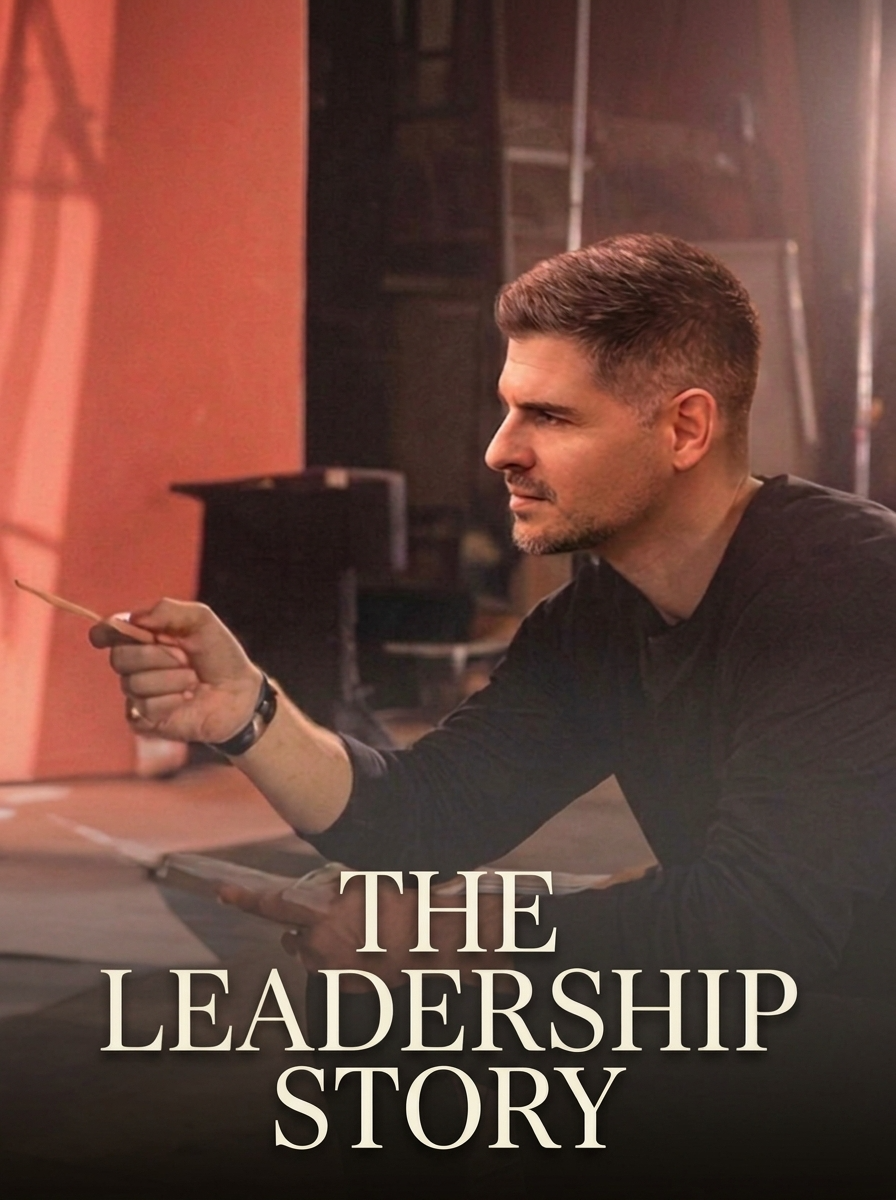
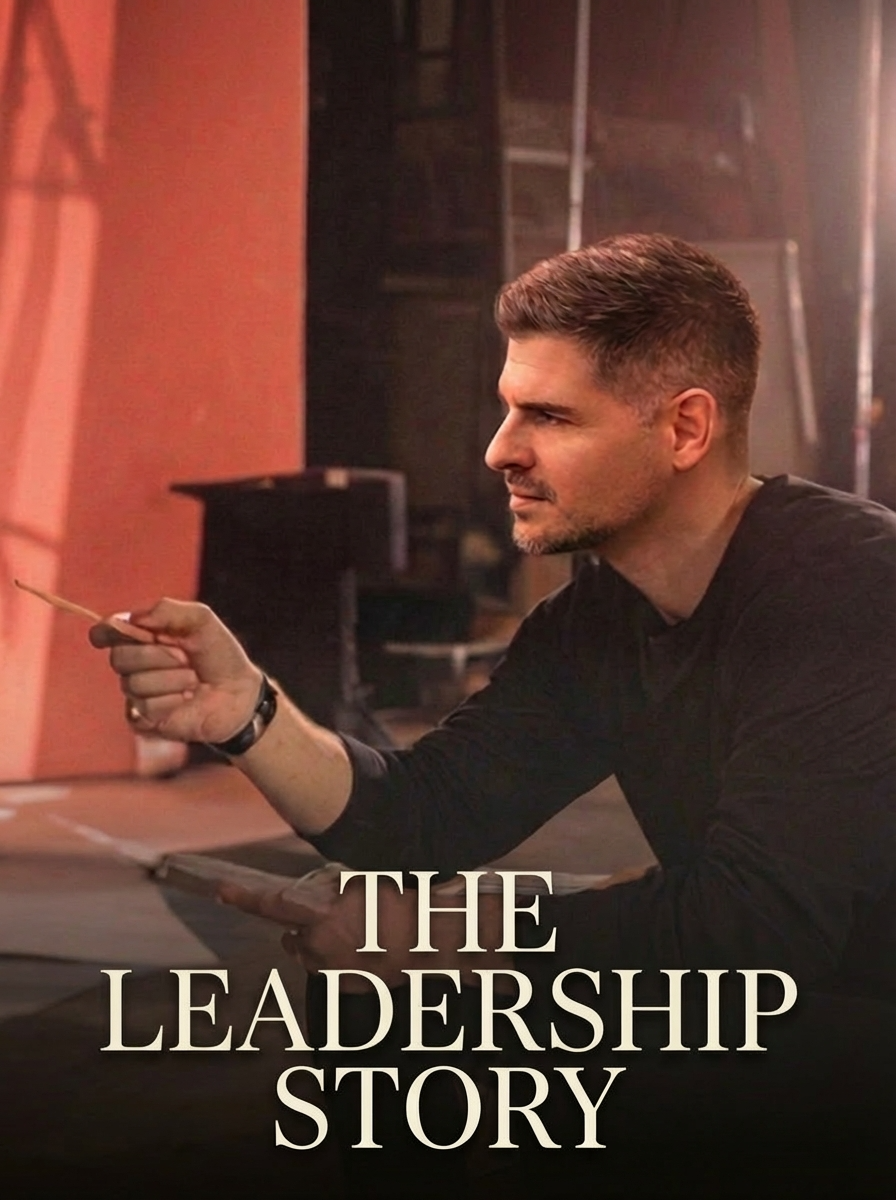
feat(portal): replace system visual and sync advisory updates

Changed region(s): [[0.1562, 0.6167, 1.0, 0.8942], [0.0, 0.7092, 0.1875, 0.8325], [0.2188, 0.6167, 0.2812, 0.6475]]

diff --git a/TheHub/advisory/index.html b/TheHub/advisory/index.html
@@ -17,7 +17,7 @@
     <link rel="icon" type="image/png" sizes="32x32" href="/assets/images/favicon-32x32.png">
     
     <!-- Ecosystem Fonts -->
-    <link href="https://fonts.googleapis.com/css2?family=Inter:wght@300;400;500;600;700&family=Big+Shoulders+Display:wght@600;700;800&display=swap" rel="stylesheet">
+    <link href="https://fonts.googleapis.com/css2?family=Inter:wght@300;400;500;600;700&family=Big+Shoulders+Display:wght@600;700;800&family=Cormorant+Garamond:ital,wght@0,300;0,400;0,500;1,300;1,400;1,500&display=swap" rel="stylesheet">
     
     <!-- Icons -->
     <link rel="stylesheet" href="https://cdnjs.cloudflare.com/ajax/libs/font-awesome/6.4.0/css/all.min.css" crossorigin="anonymous">
@@ -38,6 +38,7 @@
             --border-color: rgba(0, 0, 0, 0.08);
             --font-strategist: 'Big Shoulders Display', sans-serif;
             --font-orchestrator: 'Inter', sans-serif;
+            --font-storyteller: 'Cormorant Garamond', Georgia, serif;
             --ease-out: cubic-bezier(0.4, 0, 0.2, 1);
             --ease-spring: cubic-bezier(0.16, 1, 0.3, 1);
         }
@@ -76,6 +77,29 @@
            TYPOGRAPHY & UTILS
            ========================================== */
         h1, h2, h3 { font-family: 'Big Shoulders Display', sans-serif; letter-spacing: -0.01em; line-height: 1.1; }
+
+        /* ── STORYTELLER TYPOGRAPHY ── */
+        .serif-body {
+            font-family: var(--font-storyteller);
+            font-size: 1.2rem;
+            font-weight: 300;
+            line-height: 1.75;
+            color: var(--text-secondary);
+        }
+        .card p, .mode-body, .process-desc, .node-desc {
+            font-family: var(--font-storyteller);
+            font-size: 1.05rem;
+            font-weight: 300;
+            line-height: 1.75;
+        }
+        .section-lead {
+            font-family: var(--font-storyteller);
+            font-size: 1.15rem;
+            font-weight: 300;
+            font-style: italic;
+            line-height: 1.7;
+            color: var(--text-secondary);
+        }
         
         .text-gradient { 
             background: linear-gradient(135deg, var(--coral), var(--teal)); 
@@ -297,6 +321,7 @@
         /* MOBILE OVERRIDES */
         @media (max-width: 1024px) {
             .legacy-stats { gap: 2rem; }
+            .proof-grid-3col { grid-template-columns: 1fr !important; }
             .ecosystem-flow { grid-template-columns: 1fr 1fr; }
             .ecosystem-node:nth-child(2) { border-right: 1px solid var(--border-color); border-bottom: none; }
             .ecosystem-node:nth-child(3) { border-top: none; }
@@ -317,21 +342,44 @@
         }
 
         /* Standardized Footer Responsiveness */
-        @media (max-width: 768px) {
+        @media (max-width: 1024px) {
           .ft-responsive-grid {
-            grid-template-columns: 1fr !important;
-            padding: 48px 28px 0 !important;
-            gap: 40px !important;
+            grid-template-columns: 1fr 1fr !important;
+            padding: 48px 32px 0 !important;
+            gap: 32px 24px !important;
           }
           .ft-responsive-legal {
             flex-direction: column !important;
-            align-items: flex-start !important;
-            gap: 10px !important;
-            padding: 20px 28px 32px !important;
+            align-items: center !important;
+            gap: 8px !important;
+            padding: 20px 32px 28px !important;
+            text-align: center !important;
+          }
+          .ft-responsive-legal span { text-align: center !important; max-width: 100% !important; }
+        }
+        @media (max-width: 640px) {
+          .ft-responsive-grid {
+            grid-template-columns: 1fr 1fr !important;
+            padding: 40px 20px 0 !important;
+            gap: 28px 16px !important;
+          }
+          /* Brand col spans full width, other 3 cols form 2x2 below */
+          .ft-responsive-grid > div:first-child {
+            grid-column: 1 / -1 !important;
+            text-align: center !important;
+          }
+          .ft-responsive-grid > div:first-child img {
+            margin: 0 auto 16px !important;
+            height: 64px !important;
+          }
+          .ft-responsive-grid > div:first-child p {
+            display: none !important;
+          }
+          .ft-responsive-legal {
+            padding: 16px 20px 24px !important;
           }
           .ft-responsive-legal span:last-child {
-            text-align: left !important;
-            max-width: 100% !important;
+            display: none !important;
           }
         }
     </style>
@@ -354,7 +402,7 @@
             <h1 style="font-size: clamp(3rem, 6vw, 5.5rem); line-height: 1; margin-bottom: 1.5rem; color: var(--text-primary);">
                 Clarity for the decisions<br><span class="text-gradient">that define outcomes.</span>
             </h1>
-            <p style="font-size: 1.2rem; color: var(--text-secondary); line-height: 1.7; margin-bottom: 2.75rem; max-width: 640px; margin-left: auto; margin-right: auto;">
+            <p style="font-family: 'Cormorant Garamond', Georgia, serif; font-size: 1.35rem; font-weight: 300; font-style: italic; color: var(--text-secondary); line-height: 1.7; margin-bottom: 2.75rem; max-width: 640px; margin-left: auto; margin-right: auto;">
                 Experienced strategic direction when the stakes are high and clarity is critical.
             </p>
             <div style="display: flex; gap: 1rem; justify-content: center; flex-wrap: wrap;">
@@ -450,12 +498,12 @@
         <div class="container" style="text-align: center; max-width: 800px;">
             <div class="eyebrow">EXPERTISE, EARNED</div>
             <h2 style="font-size: clamp(2.25rem, 4vw, 3.5rem); margin-bottom: 1.5rem; color: var(--text-primary);">Built across launches, transitions, and reinvention.</h2>
-            <p style="color: var(--text-secondary); font-size: 1.1rem; line-height: 1.7; margin-bottom: 3.5rem; max-width: 640px; margin-left: auto; margin-right: auto;">
+            <p style="font-family: 'Cormorant Garamond', Georgia, serif; font-size: 1.25rem; font-weight: 300; color: var(--text-secondary); line-height: 1.75; margin-bottom: 3.5rem; max-width: 640px; margin-left: auto; margin-right: auto;">
                 From Windows and Office to Teams, Edge, Microsoft 365, and Copilot, this perspective was shaped inside high-visibility environments where strategy, storytelling, and execution had to align under pressure.
             </p>
 
             <!-- Proof Points -->
-            <div style="display: grid; grid-template-columns: repeat(3, 1fr); gap: 1px; background: var(--border-color); border-radius: 12px; overflow: hidden; margin-bottom: 3.5rem;">
+            <div class="proof-grid-3col" style="display: grid; grid-template-columns: repeat(3, 1fr); gap: 1px; background: var(--border-color); border-radius: 12px; overflow: hidden; margin-bottom: 3.5rem;">
                 <div style="background: var(--bg-primary); padding: 2rem 1.5rem;">
                     <div style="font-family: 'Big Shoulders Display', sans-serif; font-size: 2.75rem; font-weight: 800; color: var(--coral); line-height: 1; margin-bottom: 0.5rem;">15+</div>
                     <div style="font-size: 0.78rem; text-transform: uppercase; color: var(--text-secondary); letter-spacing: 0.1em; line-height: 1.4;">Years across major platform &amp; brand transitions</div>
@@ -571,7 +619,7 @@
         <div class="container" style="max-width: 680px;">
             <div class="eyebrow">READY TO MOVE</div>
             <h2 style="font-size: clamp(2.5rem, 5vw, 4rem); color: var(--text-primary); margin-bottom: 1.5rem; line-height: 1.05;">Need clarity before the next move?</h2>
-            <p style="color: var(--text-secondary); font-size: 1.1rem; line-height: 1.7; margin-bottom: 3rem;">When the stakes are high and the path forward is unclear, Advisory brings the clarity and direction needed to move with confidence.</p>
+            <p style="font-family: 'Cormorant Garamond', Georgia, serif; font-size: 1.25rem; font-weight: 300; font-style: italic; color: var(--text-secondary); line-height: 1.75; margin-bottom: 3rem;">When the stakes are high and the path forward is unclear, Advisory brings the clarity and direction needed to move with confidence.</p>
             <div style="display: flex; gap: 1rem; justify-content: center; flex-wrap: wrap;"> 
                 <a href="/contact.html?from=advisory" class="btn btn-primary">Start the Conversation</a> 
                 <a href="/portal/partners/" class="btn btn-ghost">See how this operates →</a> 

diff --git a/index.html b/index.html
@@ -2982,7 +2982,7 @@
             <div class="tour-card"> 
               <div class="card-inner"> 
                 <div class="card-front"> 
-                  <img src="/assets/images/SelectedWork_mobile_coral.png" alt="Selected Work"> 
+                  <img src="/assets/images/SelectedWork_coral.png" alt="Selected Work"> 
                 </div> 
                 <div class="card-back card-back-deep-blue"> 
                   <div class="card-back-content"> 
